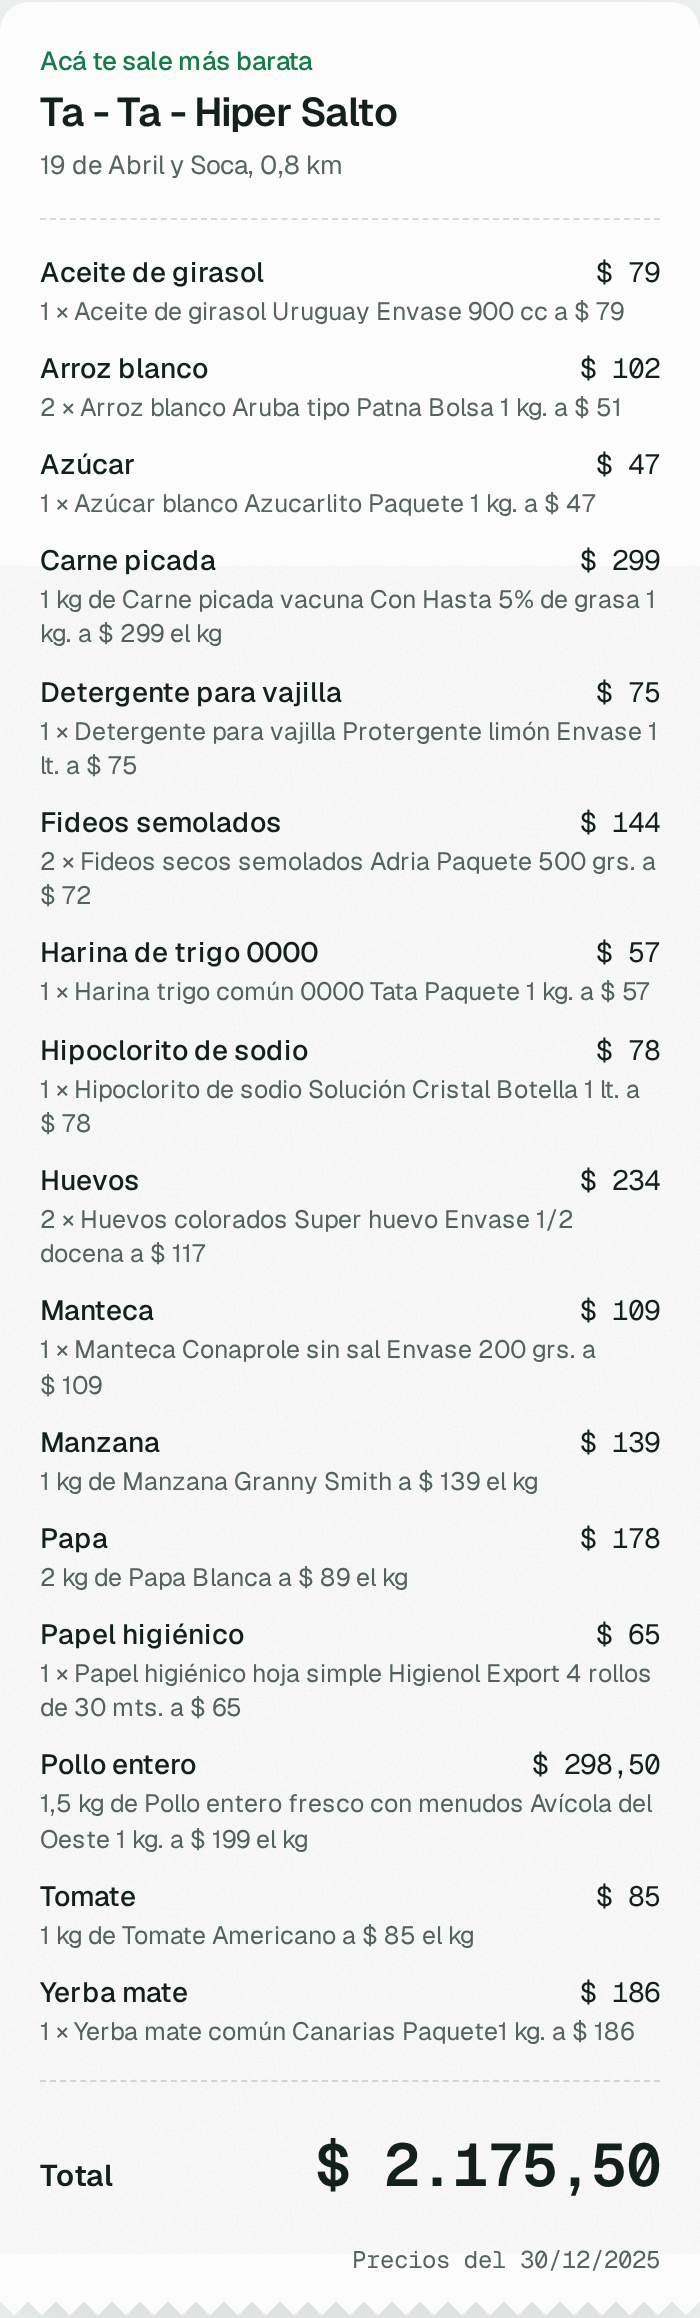
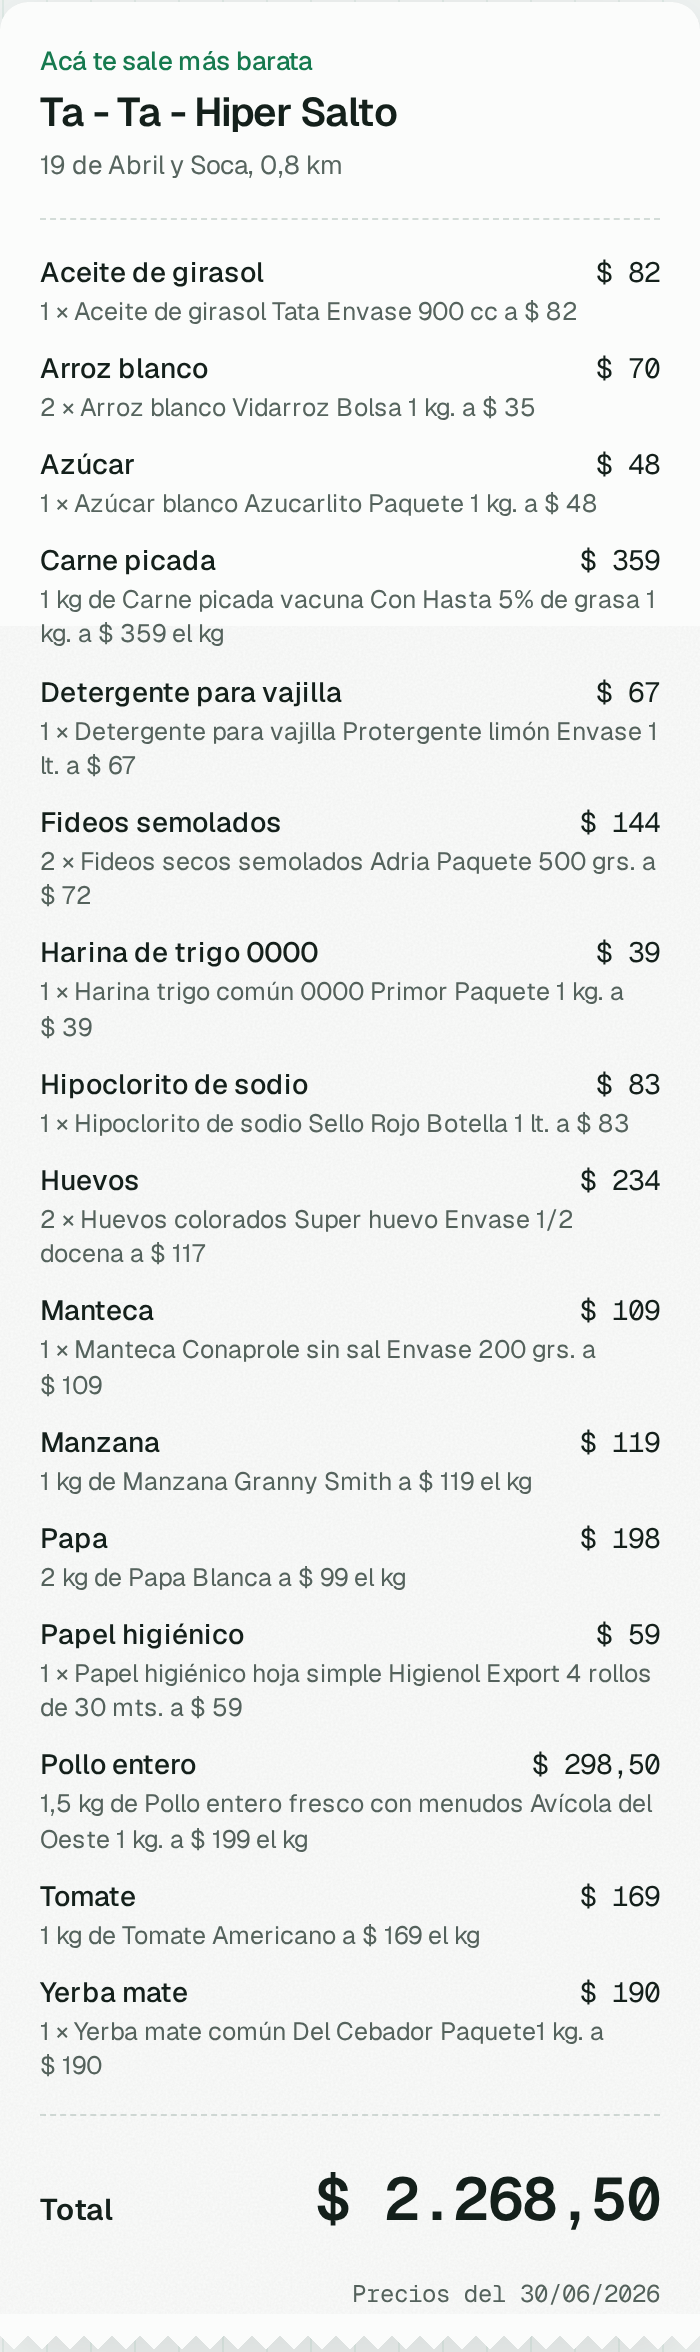
SIPC 2026: precios hasta el 30/06/2026 y limpieza de los nuevos problemas de formato
- Pipeline de varios años (2025 y 2026, 40 M precios); catálogos de 2026
- NULL como texto en el archivo de comercios (NULL 'NULL' en el COPY; columnas a text en raw)
- core.coordenada_sipc: recupera coordenadas sin coma decimal y descarta las dañadas por Excel
- Departamentos contra la lista oficial y ciudades unificadas (mayúsculas y tildes)
- Web: créditos del mapa plegados; README y capturas con datos de 2026

diff --git a/web/src/components/Mapa.tsx b/web/src/components/Mapa.tsx
@@ -216,6 +216,9 @@ export function Mapa({ centro, departamento, radioKm, comercios, resultados, sel
       new AttributionControl({ compact: true, customAttribution: "Límites: geoBoundaries (ODbL)" }),
       "top-left",
     );
+    // Los créditos arrancan desplegados y en el celular tapan el zoom: se muestran plegados
+    // (siguen a un toque en el ícono de información)
+    m.once("load", () => contenedor.current?.querySelector(".maplibregl-ctrl-attrib")?.classList.remove("maplibregl-compact-show"));
     m.on("style.load", () => {
       prepararEstilo(m);
       setListo((n) => n + 1);

diff --git a/pipelines/fuentes/sipc.py b/pipelines/fuentes/sipc.py
@@ -1,8 +1,9 @@
 """Descarga los archivos del SIPC (Uruguay), los carga en raw y los pasa a core.
 
-Fuente: catálogo de datos abiertos, dataset "Sistema de Información de Precios al
-Consumidor - 2025" (Defensa del Consumidor). Hay un archivo de precios por año, que se
-actualiza cada trimestre, y dos catálogos: productos y comercios.
+Fuente: catálogo de datos abiertos, datasets "Sistema de Información de Precios al
+Consumidor" de 2025 y 2026 (Defensa del Consumidor). Hay un archivo de precios por año, que
+se actualiza cada trimestre, y dos catálogos: productos y comercios. Los catálogos se toman
+del año más reciente, que incluye todo lo de los anteriores.
 Destino: raw.sipc_* (tal cual vienen), después core.establecimiento,
 core.producto_fuente y core.precio (limpios; ver sql/transform/sipc_core.sql) y por
 último el catálogo de productos genéricos (ver sql/transform/sipc_catalogo.sql) y el
@@ -26,30 +27,36 @@ import requests
 DESTINO = Path("data/raw/sipc")
 TRANSFORMACION = Path("sql/transform/sipc_core.sql")
 CATALOGO = Path("sql/transform/sipc_catalogo.sql")
-DATASET = "https://catalogodatos.gub.uy/dataset/35d8f45e-2aa7-48b5-98dd-f973b05cf8ba/resource"
+SIPC_2025 = "https://catalogodatos.gub.uy/dataset/35d8f45e-2aa7-48b5-98dd-f973b05cf8ba/resource"
+SIPC_2026 = "https://catalogodatos.gub.uy/dataset/c2edcd30-8a99-45da-b208-b76056de430e/resource"
 
 # El encabezado esperado funciona como contrato: si la fuente cambia columnas u orden,
 # el pipeline se detiene en lugar de cargar datos corridos de lugar.
 RECURSOS = {
     "productos": {
-        "url": f"{DATASET}/ed042b97-12ce-46ff-a169-b2594337a6e4/download/productos.csv",
+        "urls": [f"{SIPC_2026}/03e4e104-5a4a-4597-988f-7ba6df749ff8/download/productos.csv"],
         "encoding": "latin-1",
         "encabezado": "id.producto;producto;marca;especificacion;nombre",
         "tabla": "raw.sipc_productos",
         "opciones": "FORMAT csv, DELIMITER ';', HEADER true, ENCODING 'LATIN1'",
     },
     "establecimientos": {
-        "url": f"{DATASET}/5fbdd7e8-97fa-44db-b978-4381670c8933/download/establecimiento.csv",
+        "urls": [f"{SIPC_2026}/26a1743a-2a63-4712-a220-a5a19879e748/download/establecimiento.csv"],
         "encoding": "latin-1",
         "encabezado": (
             "id.establecimientos;razon.social;nombre.sucursal;direccion;ccz;barrio;cajas;"
             "cadena;long;lat;ciudad;depto;id.depto;localidad;superficie (m2)"
         ),
         "tabla": "raw.sipc_establecimientos",
-        "opciones": "FORMAT csv, DELIMITER ';', HEADER true, ENCODING 'LATIN1'",
+        # Desde 2026 los datos faltantes vienen como la palabra NULL (en 2025, vacíos)
+        "opciones": "FORMAT csv, DELIMITER ';', HEADER true, ENCODING 'LATIN1', NULL 'NULL'",
     },
     "precios": {
-        "url": f"{DATASET}/36c62bab-b7e4-4c9e-ad9b-4c1182090a22/download/precios_2025.csv",
+        # Un archivo por año; se cargan todos juntos en la misma tabla
+        "urls": [
+            f"{SIPC_2025}/36c62bab-b7e4-4c9e-ad9b-4c1182090a22/download/precios_2025.csv",
+            f"{SIPC_2026}/8226cb72-6ff0-4ed5-84a4-6eb7ee3be208/download/precios_2026.csv",
+        ],
         "encoding": "ascii",
         "encabezado": (
             '"ID_PrecioDiario","Declaracion","Fecha","Fecha_anterior","Oferta","Precio",'
@@ -101,15 +108,17 @@ def validar_encabezado(archivo: Path, encoding: str, esperado: str) -> None:
         )
 
 
-def cargar(conn, archivo: Path, tabla: str, opciones: str) -> int:
-    """Reemplaza el contenido de la tabla con el archivo. Devuelve las filas cargadas."""
+def cargar(conn, archivos: list[Path], tabla: str, opciones: str) -> int:
+    """Reemplaza el contenido de la tabla con los archivos. Devuelve las filas cargadas."""
+    filas = 0
     with conn.transaction(), conn.cursor() as cur:
         cur.execute(f"TRUNCATE {tabla}")
-        copy_sql = f"COPY {tabla} FROM STDIN WITH ({opciones})"
-        with cur.copy(copy_sql) as copy, open(archivo, "rb") as f:
-            while bloque := f.read(1 << 20):
-                copy.write(bloque)
-        filas = cur.rowcount
+        for archivo in archivos:
+            copy_sql = f"COPY {tabla} FROM STDIN WITH ({opciones})"
+            with cur.copy(copy_sql) as copy, open(archivo, "rb") as f:
+                while bloque := f.read(1 << 20):
+                    copy.write(bloque)
+            filas += cur.rowcount
         # Actualiza las estadísticas que usa Postgres para planificar las consultas
         cur.execute(f"ANALYZE {tabla}")
     return filas
@@ -225,10 +234,11 @@ def main() -> None:
                 refrescar_mart(conn)
                 continue
             recurso = RECURSOS[nombre]
-            archivo = DESTINO / recurso["url"].rsplit("/", 1)[1]
-            descargar(recurso["url"], archivo)
-            validar_encabezado(archivo, recurso["encoding"], recurso["encabezado"])
-            filas = cargar(conn, archivo, recurso["tabla"], recurso["opciones"])
+            archivos = [DESTINO / url.rsplit("/", 1)[1] for url in recurso["urls"]]
+            for url, archivo in zip(recurso["urls"], archivos):
+                descargar(url, archivo)
+                validar_encabezado(archivo, recurso["encoding"], recurso["encabezado"])
+            filas = cargar(conn, archivos, recurso["tabla"], recurso["opciones"])
             print(f"  cargadas {filas:,} filas")
 
 

diff --git a/docs/CONTEXTO.md b/docs/CONTEXTO.md
@@ -22,7 +22,7 @@ Decisiones:
   más; muestra el recorrido completo pipelines → base → API → interfaz. Stack propuesto:
   FastAPI + Leaflet/OpenStreetMap.
 - El campo `producto` del SIPC ("Aceite de girasol") ya es la categoría genérica sin marca.
-- Limitación a mostrar en la web: los precios del SIPC llegan al 31/12/2025.
+- La web muestra la fecha de los precios (hoy, del SIPC 2026: hasta el 30/06/2026).
 - Tickets en Uruguay: son **CFE** de la DGI (no NFC-e, que es de Brasil). Falta investigar si
   el QR permite obtener los ítems o solo el total; si no, foto + extracción con IA.
 
@@ -231,6 +231,22 @@ Otras fuentes evaluadas:
   Incluye el **31/12/2025** (69 MB), el mismo último día que el SIPC: permite comparar en la
   **misma fecha** sin ajustar por inflación. La licencia CC BY 4.0 de SEPA permite redistribuir;
   hay que citar a la Secretaría de Comercio como fuente y a preciazo como archivo.
+
+### SIPC 2026 cargado (30/09/2026)
+
+- El pipeline carga ahora **2025 y 2026** (precios hasta el **30/06/2026**): 40.315.906 filas en
+  raw, 40.163.889 en core (−189 huérfanos, −151.828 duplicados), 893 comercios (41 nuevos), base
+  de 12 GB. La web muestra precios del 31/05 al 30/06/2026. Los catálogos se toman de 2026.
+- Cambios de formato de 2026: los vacíos del archivo de comercios vienen como la palabra `NULL`
+  (se resuelve con `NULL 'NULL'` en el COPY; `ccz`, `cajas`, `id_depto`, `localidad` y
+  `superficie_m2` pasaron a text en raw). Las coordenadas siguen cruzadas.
+- **Coordenadas dañadas por Excel** en 9 comercios nuevos: `-3,34E+15` (irrecuperable, se
+  descarta) o `-348576993` (se recupera: 2 dígitos enteros). Función `core.coordenada_sipc`.
+  Quedan 12 comercios sin ubicación.
+- Un tipo cambió de nombre en 2026 ("Hojas de Blancas"); se agregó a la correspondencia.
+- Nombres con variantes en 2026 ("CANELONES", "MALDONADO", "Paso de los toros", "Piriapolis"):
+  los departamentos se comparan contra la lista oficial de 19 y las ciudades se unifican en la
+  variante mejor escrita (con tildes y mayúsculas), sin distinguir mayúsculas ni tildes.
 
 ## Próximos pasos
 

diff --git a/docs/FUENTES.md b/docs/FUENTES.md
@@ -8,12 +8,12 @@ cada una. Última revisión: 30/09/2026.
 ### SIPC – Sistema de Información de Precios al Consumidor (Uruguay)
 
 - Responsable: Unidad de Defensa del Consumidor (MEF). Contacto: equiposipc@consumidor.gub.uy
-- **Dataset 2026** (precios del 01/01 al 30/06/2026, 1 GB, actualizado el 17/07/2026; todavía
-  no cargado): https://catalogodatos.gub.uy/dataset/defensa-del-consumidor-sistema-de-informacion-de-precios-al-consumidor-2026
+- **Dataset 2026** (precios del 01/01 al 30/06/2026, 1 GB, actualizado el 17/07/2026; cargado
+  junto con 2025, sus catálogos son los que usa el pipeline): https://catalogodatos.gub.uy/dataset/defensa-del-consumidor-sistema-de-informacion-de-precios-al-consumidor-2026
   - Precios: https://catalogodatos.gub.uy/dataset/c2edcd30-8a99-45da-b208-b76056de430e/resource/8226cb72-6ff0-4ed5-84a4-6eb7ee3be208/download/precios_2026.csv
   - Productos: https://catalogodatos.gub.uy/dataset/c2edcd30-8a99-45da-b208-b76056de430e/resource/03e4e104-5a4a-4597-988f-7ba6df749ff8/download/productos.csv
   - Establecimientos: https://catalogodatos.gub.uy/dataset/c2edcd30-8a99-45da-b208-b76056de430e/resource/26a1743a-2a63-4712-a220-a5a19879e748/download/establecimiento.csv
-- Dataset 2025 (el que está cargado): https://catalogodatos.gub.uy/dataset/defensa-del-consumidor-sistema-de-informacion-de-precios-al-consumidor-2025
+- Dataset 2025 (cargado): https://catalogodatos.gub.uy/dataset/defensa-del-consumidor-sistema-de-informacion-de-precios-al-consumidor-2025
 - Datasets 2024 y 2023: https://catalogodatos.gub.uy/dataset/defensa-del-consumidor-sistema-de-informacion-de-precios-al-consumidor-2024
   y https://catalogodatos.gub.uy/dataset/defensa-del-consumidor-sistema-de-informacion-de-precios-al-consumidor-2023
 - Lección: el listado por etiqueta del catálogo no muestra todos los años; buscar con la API

diff --git a/README.md b/README.md
@@ -6,7 +6,7 @@ ciudad en un mapa y armás tu canasta con productos genéricos ("aceite de giras
 ticket y ver cómo te fue comparado con tu compra anterior.
 
 Construida sobre los **datos abiertos oficiales del SIPC** (Sistema de Información de
-Precios al Consumidor): 27 millones de precios de 2025 en más de 800 comercios de todo el país.
+Precios al Consumidor): 40 millones de precios de 2025 y 2026 en casi 900 comercios de todo el país.
 
 > 🚧 Proyecto en construcción. Ver [hoja de ruta](#hoja-de-ruta).
 
@@ -85,7 +85,7 @@ instalarlo ni armar un entorno virtual.
 cp .env.example .env              # y cambiá POSTGRES_PASSWORD
 docker compose up -d              # Postgres, Metabase, la API y la web
 
-# Pipeline del SIPC: descarga (~2 GB), raw, limpieza a core y catálogo de genéricos
+# Pipeline del SIPC: descarga (~3 GB), raw, limpieza a core y catálogo de genéricos
 docker compose run --rm pipelines python -m pipelines.fuentes.sipc
 
 # Tests de la API (contra la base cargada)
@@ -125,7 +125,7 @@ docker compose logs jupyter
 ## Hoja de ruta
 
 - [x] Infraestructura: Postgres + PostGIS + pgvector + Metabase, todo en Docker
-- [x] Ingesta del SIPC a la capa raw (27 M precios de 2025)
+- [x] Ingesta del SIPC a la capa raw (40 M precios de 2025 y 2026)
 - [x] Limpieza del SIPC a core: coordenadas, duplicados, cantidades, reporte de calidad
 - [x] Categorías genéricas sin marca (137 productos en 10 categorías) y precio por unidad base
 - [x] Consulta de canasta: costo por comercio, cobertura, faltantes y presupuesto
